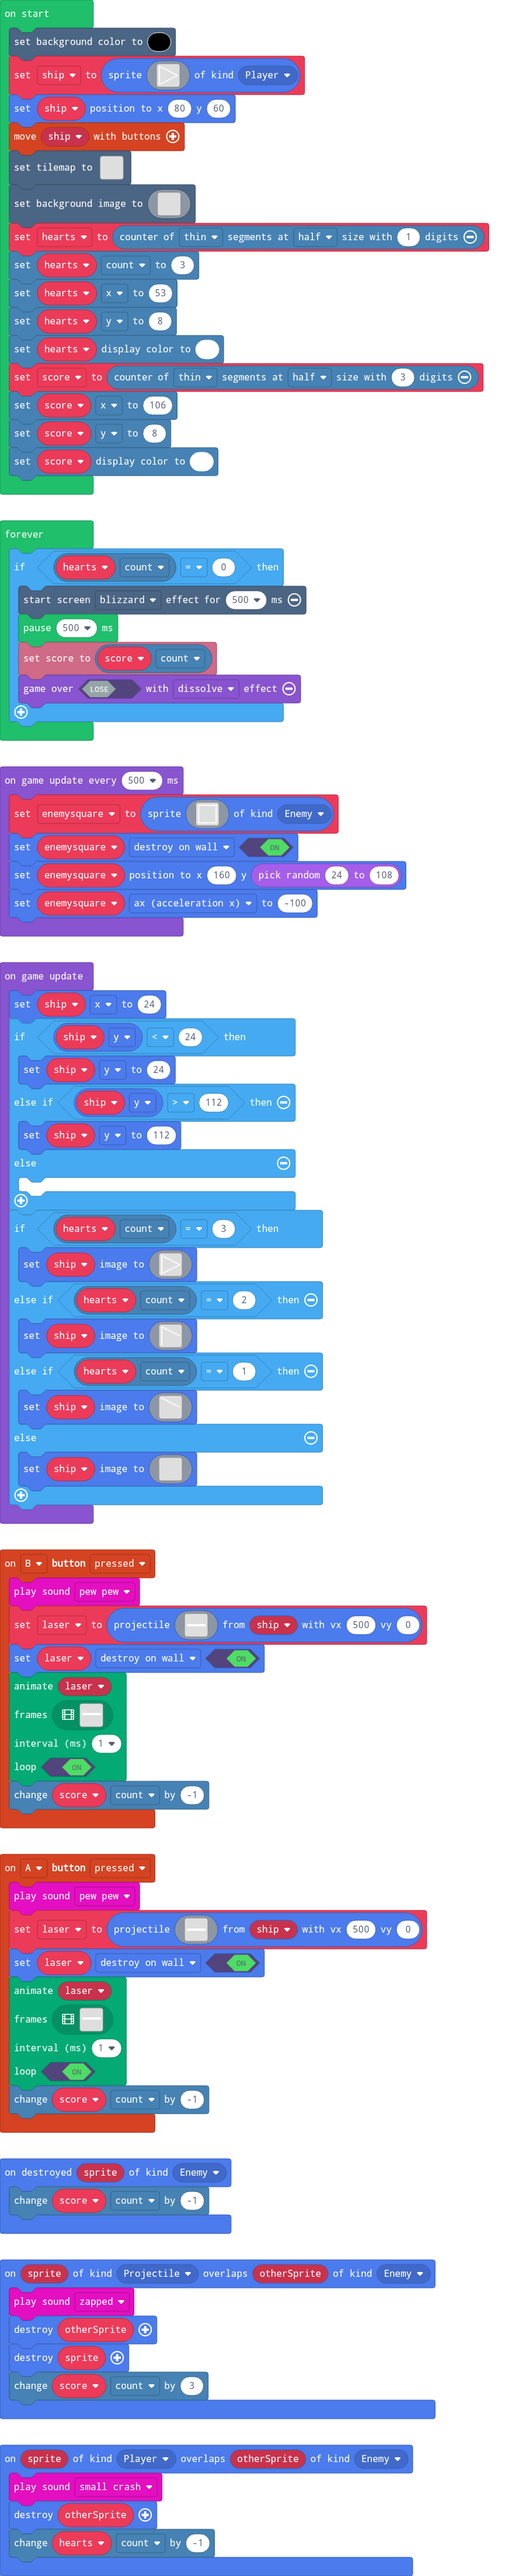
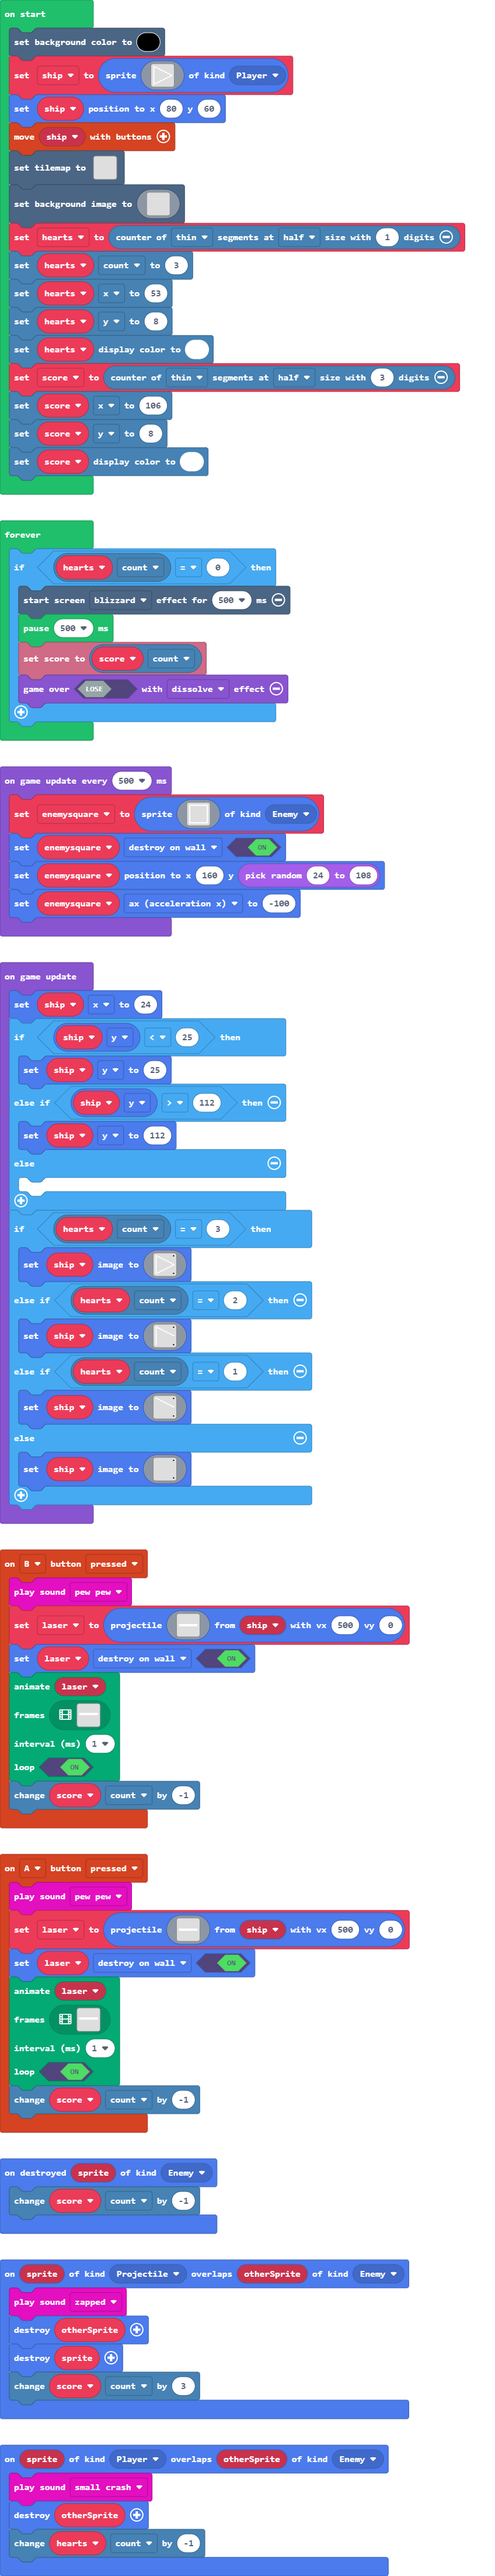
Update main.blocks, main.ts

diff --git a/main.ts b/main.ts
@@ -196,8 +196,8 @@ score.y = 8
 score.setDigitColor(1)
 game.onUpdate(function () {
     ship.x = 24
-    if (ship.y < 24) {
-        ship.y = 24
+    if (ship.y < 25) {
+        ship.y = 25
     } else if (ship.y > 112) {
         ship.y = 112
     } else {
@@ -205,7 +205,7 @@ game.onUpdate(function () {
     }
     if (hearts.count == 3) {
         ship.setImage(img`
-            1 1 . . . . . . . . . . . . . . 
+            1 1 . . . . . . . . . . . . . f 
             1 . 1 1 . . . . . . . . . . . . 
             1 . . . 1 1 . . . . . . . . . . 
             1 . . . . . 1 1 . . . . . . . . 
@@ -220,11 +220,11 @@ game.onUpdate(function () {
             1 . . . . . 1 1 . . . . . . . . 
             1 . . . 1 1 . . . . . . . . . . 
             1 . 1 1 . . . . . . . . . . . . 
-            1 1 . . . . . . . . . . . . . . 
+            1 1 . . . . . . . . . . . . . f 
             `)
     } else if (hearts.count == 2) {
         ship.setImage(img`
-            1 1 . . . . . . . . . . . . . . 
+            1 1 . . . . . . . . . . . . . f 
             1 . 1 1 . . . . . . . . . . . . 
             1 . . . 1 1 . . . . . . . . . . 
             1 . . . . . 1 1 . . . . . . . . 
@@ -239,11 +239,11 @@ game.onUpdate(function () {
             1 . . . . . . . . . . . . . . . 
             1 . . . . . . . . . . . . . . . 
             1 . . . . . . . . . . . . . . . 
-            1 . . . . . . . . . . . . . . . 
+            1 . . . . . . . . . . . . . . f 
             `)
     } else if (hearts.count == 1) {
         ship.setImage(img`
-            1 1 . . . . . . . . . . . . . . 
+            1 1 . . . . . . . . . . . . . f 
             . . 1 1 . . . . . . . . . . . . 
             . . . . 1 1 . . . . . . . . . . 
             . . . . . . 1 1 . . . . . . . . 
@@ -258,10 +258,11 @@ game.onUpdate(function () {
             . . . . . . . . . . . . . . . . 
             . . . . . . . . . . . . . . . . 
             . . . . . . . . . . . . . . . . 
-            . . . . . . . . . . . . . . . . 
+            . . . . . . . . . . . . . . . f 
             `)
     } else {
         ship.setImage(img`
+            . . . . . . . . . . . . . . . f 
             . . . . . . . . . . . . . . . . 
             . . . . . . . . . . . . . . . . 
             . . . . . . . . . . . . . . . . 
@@ -276,8 +277,7 @@ game.onUpdate(function () {
             . . . . . . . . . . . . . . . . 
             . . . . . . . . . . . . . . . . 
             . . . . . . . . . . . . . . . . 
-            . . . . . . . . . . . . . . . . 
-            . . . . . . . . . . . . . . . . 
+            . . . . . . . . . . . . . . . f 
             `)
     }
 })
